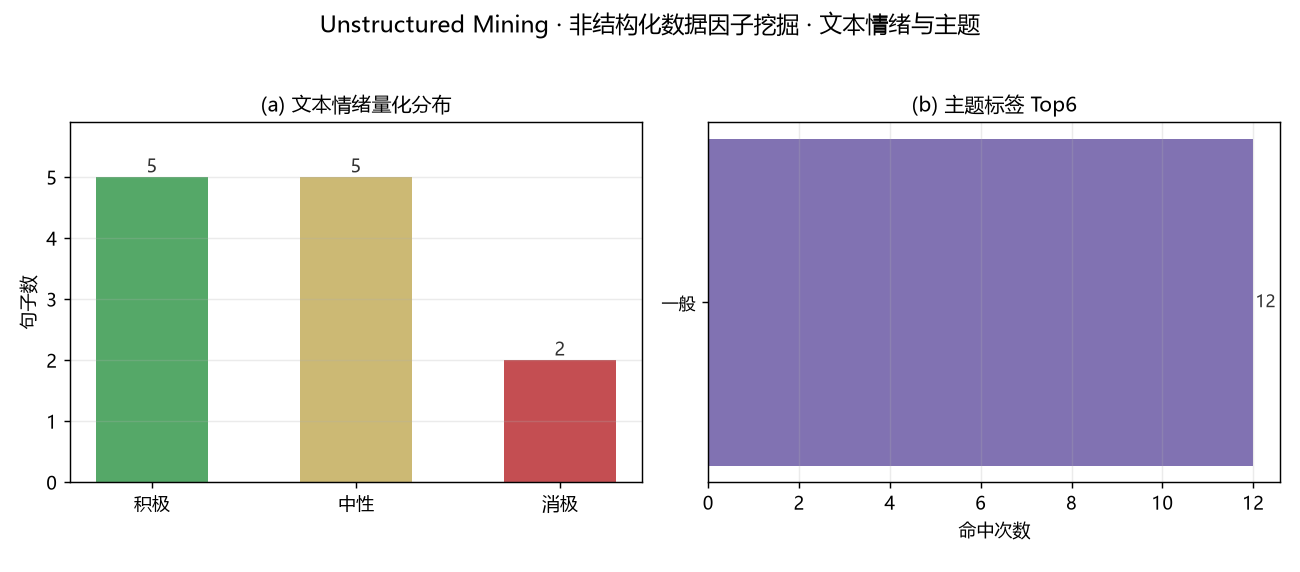
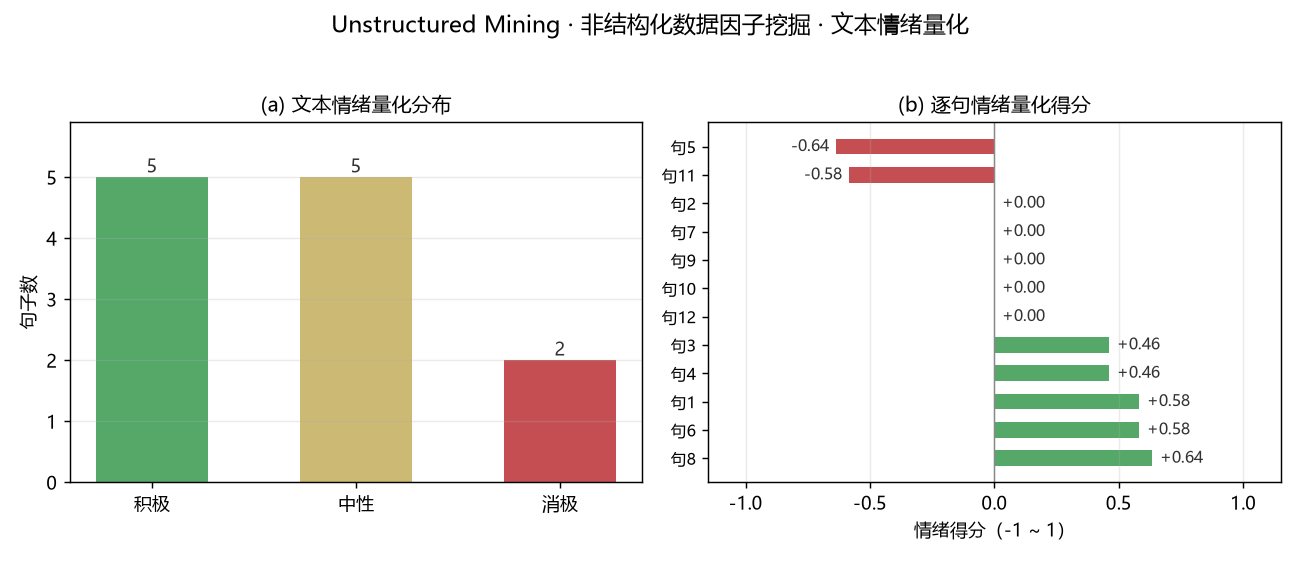
fix(docs): redraw unstructured chart with real per-sentence sentiment scores

diff --git a/scripts/gen_feature_charts.py b/scripts/gen_feature_charts.py
@@ -415,17 +415,17 @@ def fig_unstructured() -> None:
         "股权激励计划出炉，绑定核心团队利益",
     ]
     pos = neg = neu = 0
-    tags = Counter()
+    scores = []
     for t in corpus:
         r = ta.analyze(t)
         senti = r.get("sentiment_score", r.get("sentiment", 0))
+        scores.append(float(senti))
         if senti > 0.05:
             pos += 1
         elif senti < -0.05:
             neg += 1
         else:
             neu += 1
-        tags[r.get("top_tags")[0] if r.get("top_tags") else "一般"] += 1
 
     fig, axes = plt.subplots(1, 2, figsize=(10.0, 4.4), dpi=130)
     cats = ["积极", "中性", "消极"]
@@ -441,20 +441,24 @@ def fig_unstructured() -> None:
     ax.set_ylim(0, max(vals) * 1.18)
     ax.grid(alpha=0.25, axis="y")
 
-    tg = tags.most_common(6)
+    tg = sorted(enumerate(scores), key=lambda kv: kv[1])[-12:]
     ax = axes[1]
     ypos = np.arange(len(tg))
-    bars = ax.barh(ypos, [v for _, v in tg], color="#8172B2", height=0.55)
+    bar_colors = ["#55A868" if v > 0 else "#C44E52" for _, v in tg]
+    bars = ax.barh(ypos, [v for _, v in tg], color=bar_colors, height=0.55)
     for i, (b, (_, v)) in enumerate(zip(bars, tg)):
-        ax.text(v + 0.05, i, str(v), va="center", fontsize=9.5, color="#333333")
+        ax.text(v + (0.03 if v >= 0 else -0.03), i, f"{v:+.2f}", va="center",
+                ha="left" if v >= 0 else "right", fontsize=9, color="#333333")
     ax.set_yticks(ypos)
-    ax.set_yticklabels([k for k, _ in tg], fontsize=9.5)
+    ax.set_yticklabels([f"句{k + 1}" for k, _ in tg], fontsize=9)
     ax.invert_yaxis()
-    ax.set_xlabel("命中次数", fontsize=10)
-    ax.set_title("(b) 主题标签 Top6", fontsize=11)
+    ax.set_xlabel("情绪得分（-1 ~ 1）", fontsize=10)
+    ax.set_title("(b) 逐句情绪量化得分", fontsize=11)
     ax.grid(alpha=0.25, axis="x")
+    ax.axvline(0, color="#888888", lw=0.8)
+    ax.set_xlim(-1.15, 1.15)
 
-    fig.suptitle("Unstructured Mining · 非结构化数据因子挖掘 · 文本情绪与主题", fontsize=12.5)
+    fig.suptitle("Unstructured Mining · 非结构化数据因子挖掘 · 文本情绪量化", fontsize=12.5)
     fig.tight_layout(rect=[0, 0.02, 1, 0.95])
     fig.savefig(ASSETS / "feature_unstructured.png")
     plt.close(fig)
